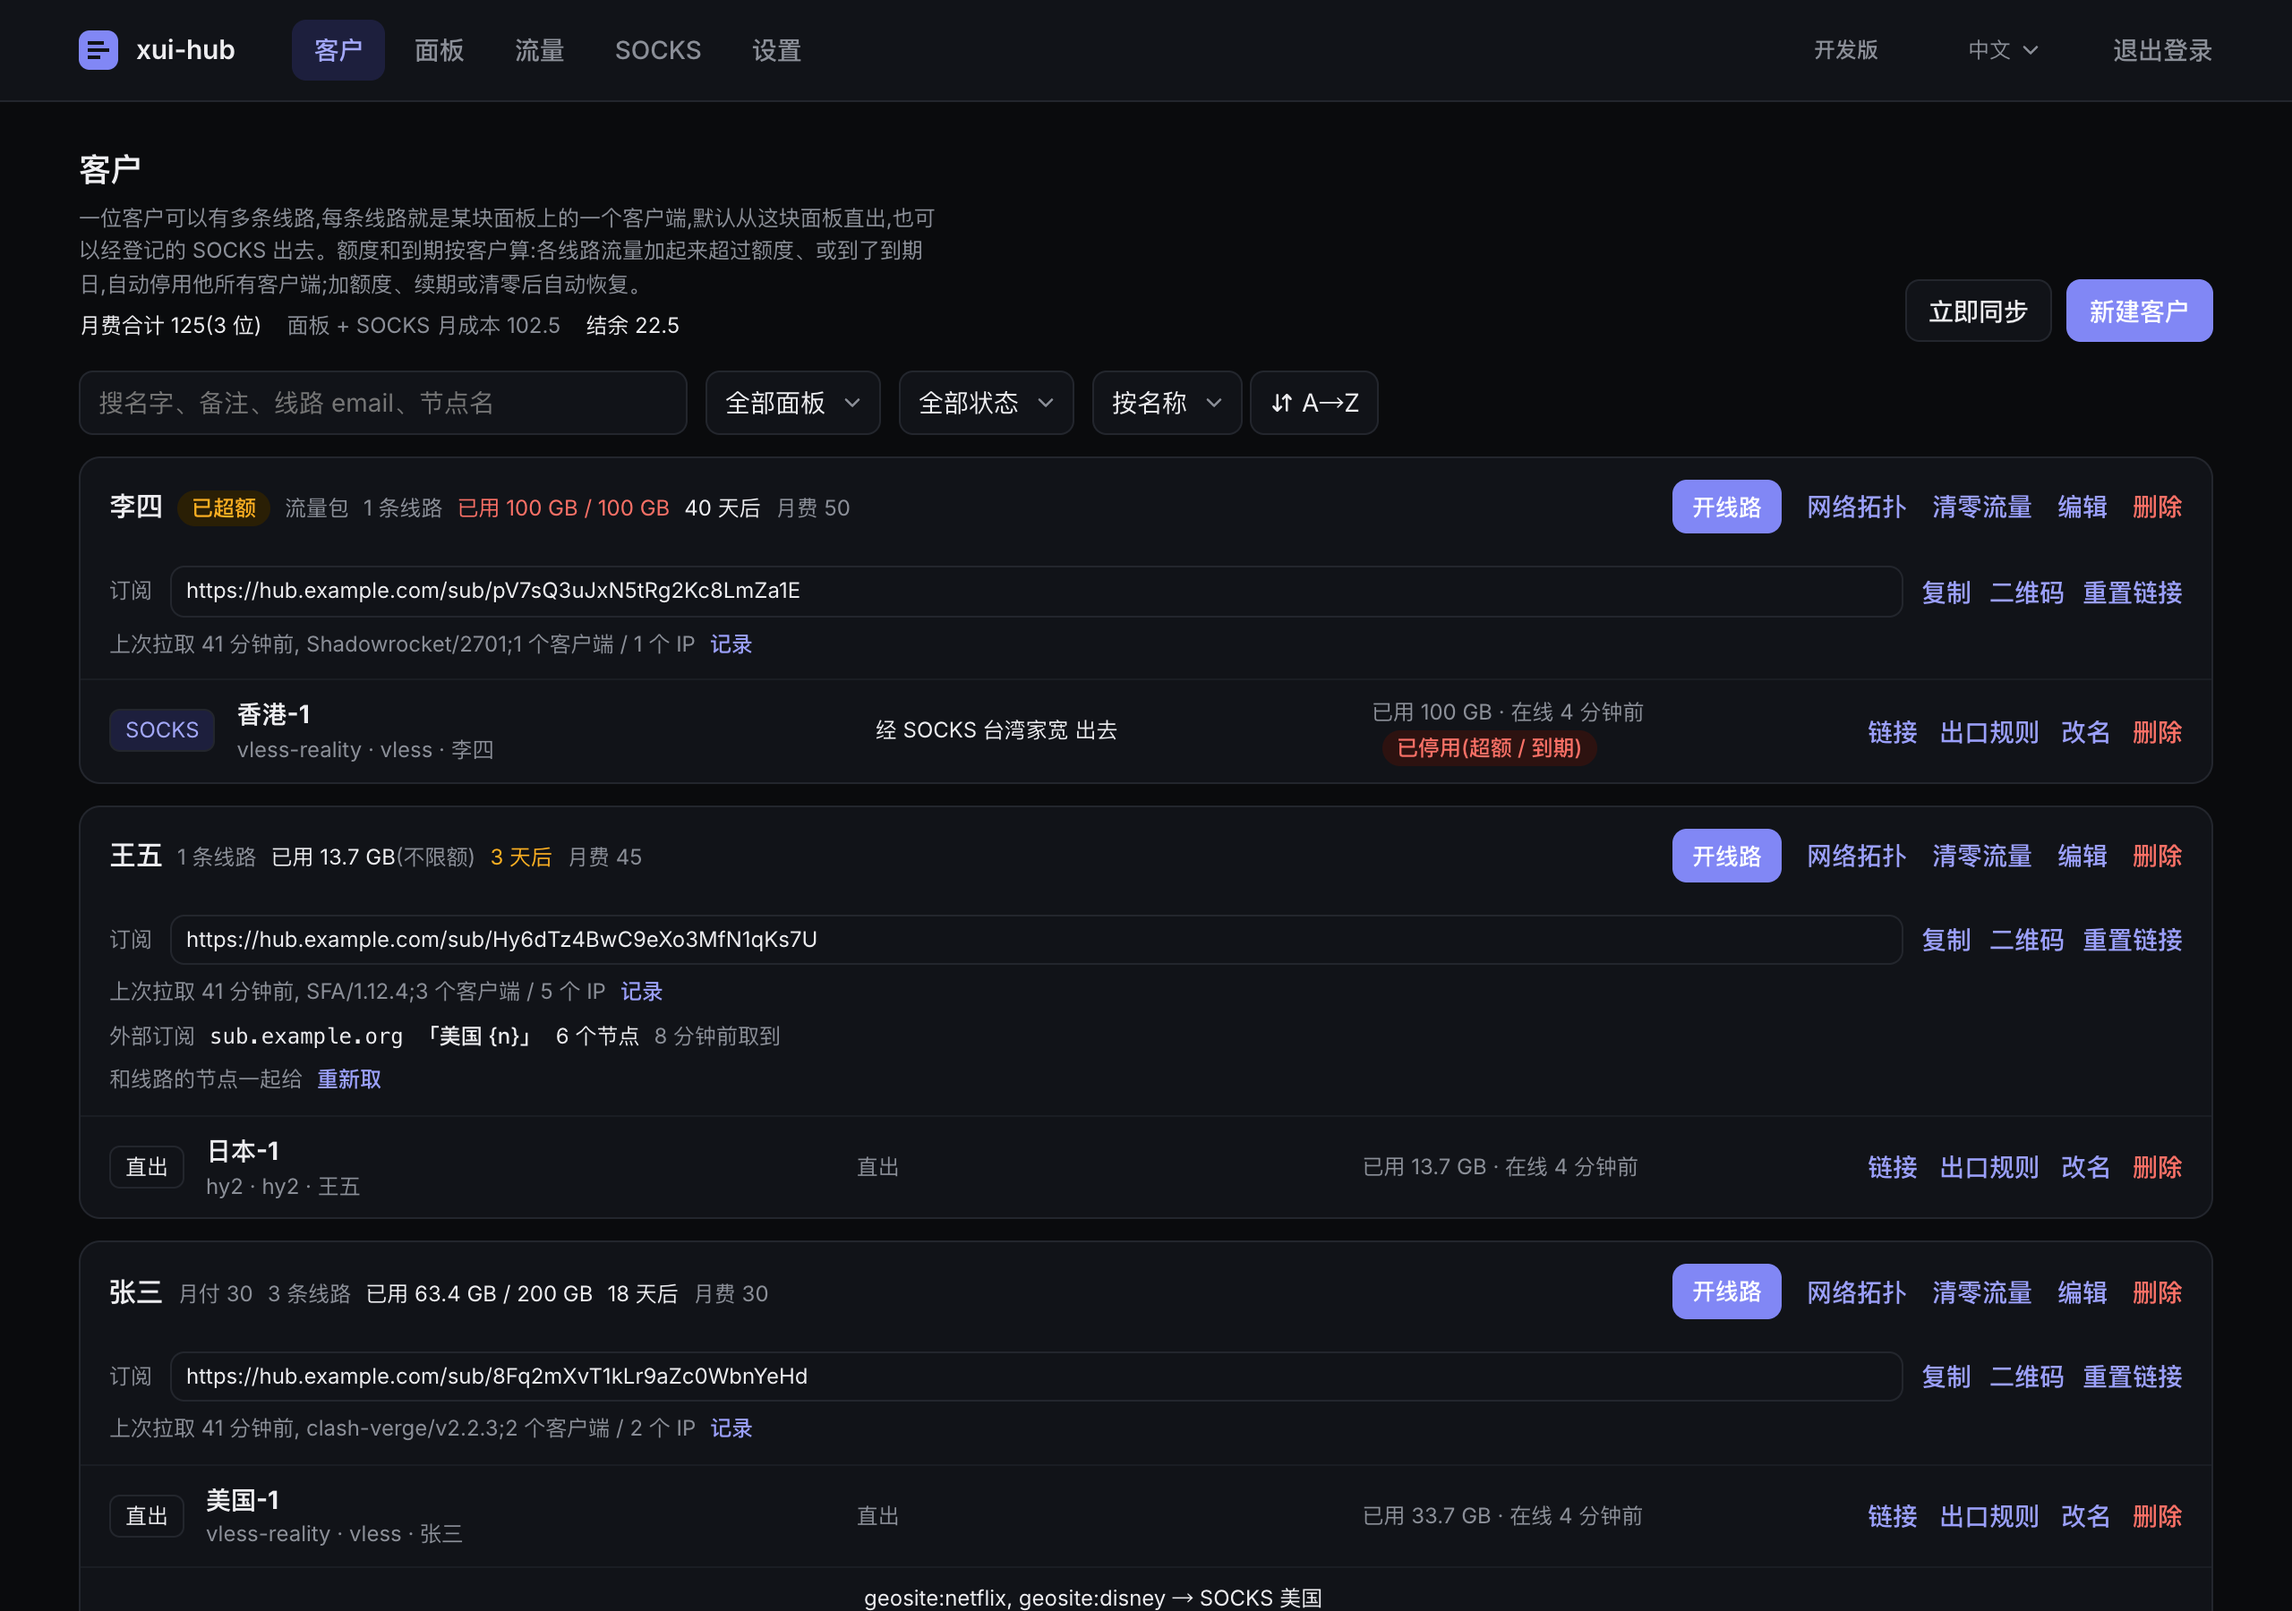
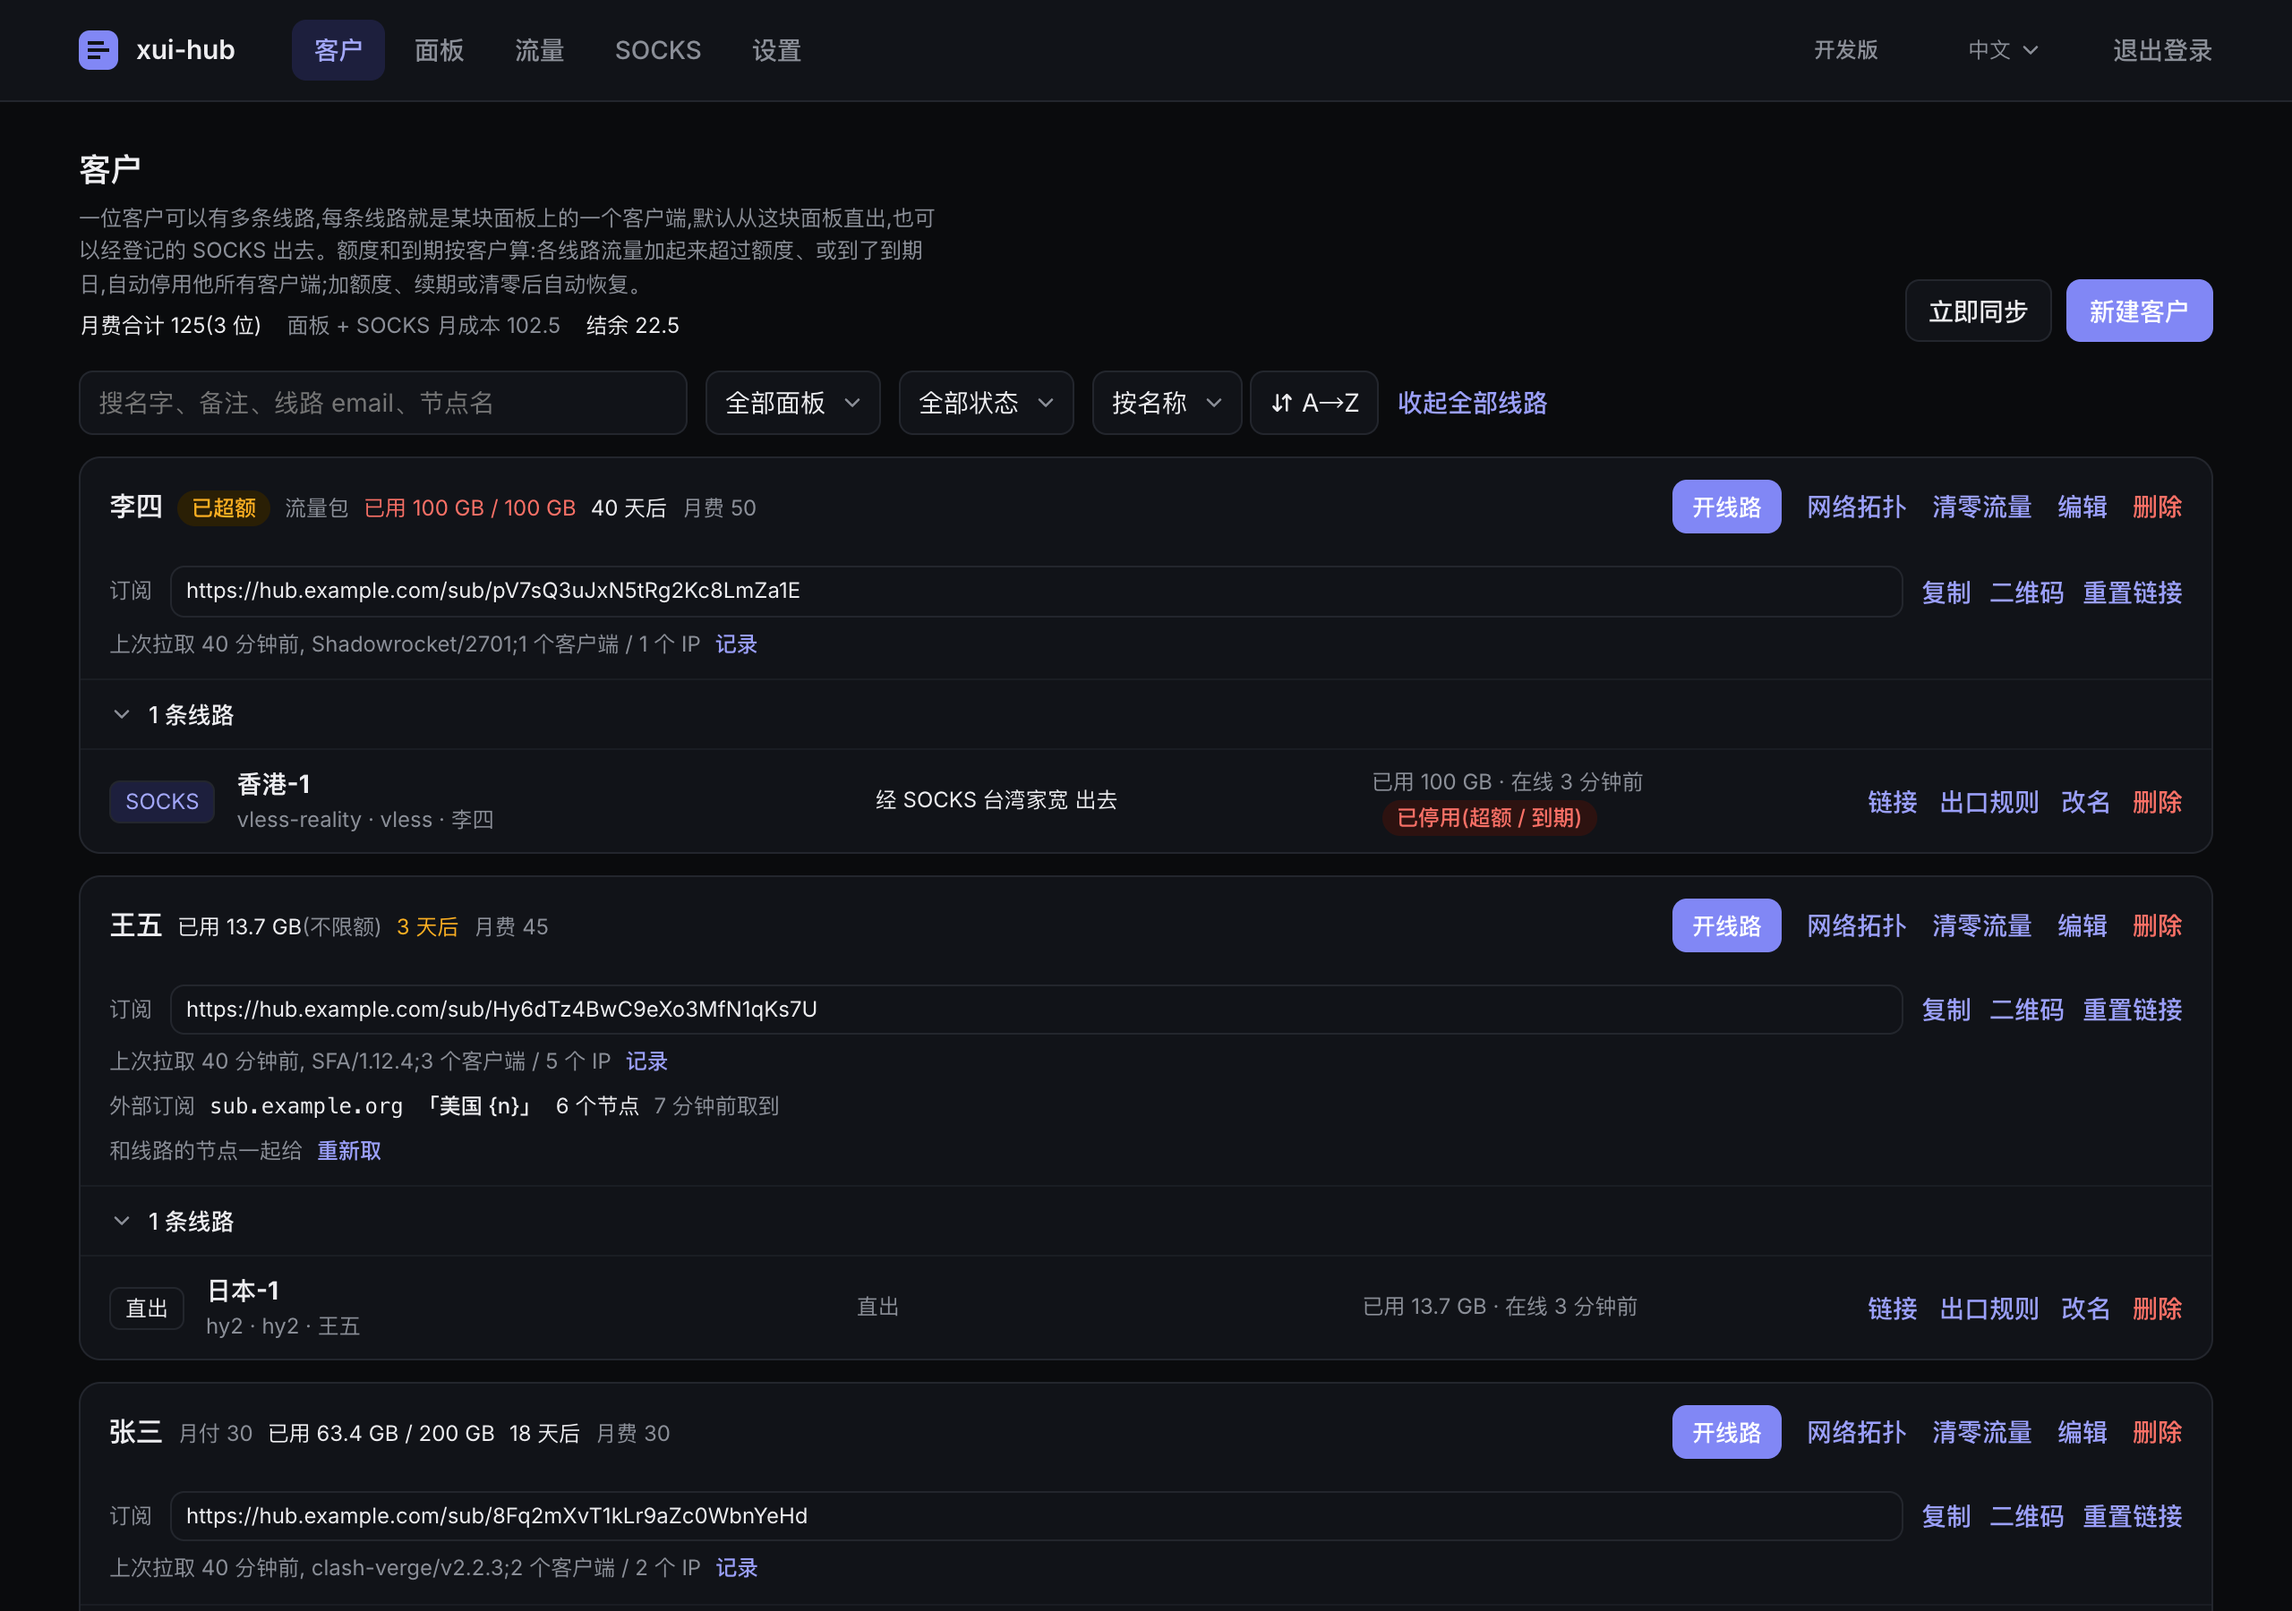
feat: 客户页的线路默认收起 (#21)
- 每位客户的线路默认收起成一行(条数、节点名、停用几条),点开看详情;展开了哪些记在浏览器里
- 筛选栏加「展开 / 收起全部线路」;搜索或按面板过滤时自动展开

diff --git a/web/src/views/Customers.vue b/web/src/views/Customers.vue
@@ -55,6 +55,46 @@ const shown = computed(() => queryCustomers(customers.value, query.value));
 const pickedPanels = computed(() => new Set(query.value.panels));
 const offPanel = (l: Line) => pickedPanels.value.size > 0 && !pickedPanels.value.has(l.panel_id) && !(l.exit_panel_id != null && pickedPanels.value.has(l.exit_panel_id));
 const filtering = computed(() => !!query.value.q.trim() || !!query.value.panels.length || !!query.value.state);
+// ---------- 线路默认收起:只留一行(条数、节点名、停用了几条),点开看详情;展开了哪些记在浏览器里 ----------
+const OPEN_LINES_KEY = 'xui-hub.openCustomerLines';
+const openLines = ref<Set<number>>(new Set());
+try {
+  const saved = JSON.parse(localStorage.getItem(OPEN_LINES_KEY) ?? '[]');
+  if (Array.isArray(saved)) openLines.value = new Set(saved.filter((x) => Number.isInteger(x)));
+} catch {
+  /* 忽略坏数据 */
+}
+function saveOpenLines(next: Set<number>) {
+  openLines.value = next;
+  try {
+    localStorage.setItem(OPEN_LINES_KEY, JSON.stringify([...next]));
+  } catch {
+    /* 存不了就算了 */
+  }
+}
+/** 搜索或按面板过滤时线路都展开(要看的就是线路),这时不显示收起 / 展开 */
+const linesForced = computed(() => !!query.value.q.trim() || query.value.panels.length > 0);
+const linesShown = (c: Customer) => linesForced.value || openLines.value.has(c.id);
+function toggleLines(c: Customer) {
+  const next = new Set(openLines.value);
+  if (next.has(c.id)) next.delete(c.id);
+  else next.add(c.id);
+  saveOpenLines(next);
+}
+const withLines = computed(() => shown.value.filter((c) => c.lines.length));
+const allLinesOpen = computed(() => withLines.value.length > 0 && withLines.value.every((c) => openLines.value.has(c.id)));
+function toggleAllLines() {
+  const next = new Set(openLines.value);
+  for (const c of withLines.value) {
+    if (allLinesOpen.value) next.delete(c.id);
+    else next.add(c.id);
+  }
+  saveOpenLines(next);
+}
+/** 收起时那一行列的名字:有自定义节点名用它,没有用面板名 */
+const lineNames = (c: Customer) => c.lines.map((l) => l.node_name || l.panel_name).join(' · ');
+const linesOff = (c: Customer) => c.lines.filter((l) => !l.enable).length;
+
 function clearFilters() {
   query.value = { ...query.value, q: '', panels: [], state: '' };
 }
@@ -551,6 +591,7 @@ function exitText(l: Line): string {
     </span>
     <span v-if="filtering" class="muted small">{{ t('customers.shown', { n: shown.length, total: customers.length }) }}</span>
     <button v-if="filtering" type="button" class="link" @click="clearFilters">{{ t('customers.clearFilters') }}</button>
+    <button v-if="!linesForced && withLines.length" type="button" class="link" @click="toggleAllLines">{{ allLinesOpen ? t('customers.collapseAll') : t('customers.expandAll') }}</button>
   </div>
 
   <div class="cards">
@@ -560,7 +601,6 @@ function exitText(l: Line): string {
           <span class="name">{{ c.name }}</span>
           <span v-if="c.state !== 'active'" class="badge" :class="c.state">{{ stateLabel(c.state) }}</span>
           <span v-if="c.remark" class="muted small">{{ c.remark }}</span>
-          <span class="muted small">{{ t('customers.lineCount', { n: c.lines.length }, c.lines.length) }}</span>
           <span class="small" :class="{ 'text-err': c.state === 'over_quota' }">
             {{ t('customers.used', { used: fmtBytes(c.used) }) }}<template v-if="c.quota_bytes"> / {{ fmtBytes(c.quota_bytes) }}</template><span v-else class="muted">{{ t('customers.unlimited') }}</span>
           </span>
@@ -613,7 +653,13 @@ function exitText(l: Line): string {
           <button class="link" :disabled="refreshing === c.id" @click="refreshUpstreams(c)">{{ refreshing === c.id ? t('customers.upstreamRefreshing') : t('customers.upstreamRefresh') }}</button>
         </div>
       </div>
-      <ul v-if="c.lines.length" class="lines">
+      <button v-if="c.lines.length && !linesForced" type="button" class="lines-toggle" :class="{ open: linesShown(c) }" :aria-expanded="linesShown(c)" @click="toggleLines(c)">
+        <svg class="chev" viewBox="0 0 16 16" width="14" height="14" aria-hidden="true"><path d="M6 4l4 4-4 4" fill="none" stroke="currentColor" stroke-width="1.6" stroke-linecap="round" stroke-linejoin="round" /></svg>
+        <span class="count">{{ t('customers.lineCount', { n: c.lines.length }, c.lines.length) }}</span>
+        <span v-if="!linesShown(c)" class="muted names" :title="lineNames(c)">{{ lineNames(c) }}</span>
+        <span v-if="!linesShown(c) && linesOff(c)" class="badge err">{{ t('customers.linesOff', { n: linesOff(c) }) }}</span>
+      </button>
+      <ul v-if="c.lines.length && linesShown(c)" class="lines">
         <li v-for="l in c.lines" :key="l.id" class="line" :class="{ dim: offPanel(l) }">
           <span class="chip" :class="l.kind">{{ l.kind === 'direct' ? t('customers.direct') : t('customers.relay') }}</span>
           <span class="where">
@@ -637,7 +683,7 @@ function exitText(l: Line): string {
           </span>
         </li>
       </ul>
-      <p v-else class="muted small none">{{ t('customers.noLines') }}</p>
+      <p v-if="!c.lines.length" class="muted small none">{{ t('customers.noLines') }}</p>
     </article>
   </div>
   <div v-if="!customers.length" class="empty sheet">{{ t('customers.empty') }}</div>
@@ -1077,6 +1123,55 @@ h2 {
 }
 .sub-meta .link {
   margin-left: 8px;
+}
+.lines-toggle {
+  display: flex;
+  align-items: center;
+  gap: 8px;
+  width: 100%;
+  min-width: 0;
+  padding: 9px 16px;
+  border: none;
+  border-top: 1px solid var(--rule-soft);
+  border-radius: 0 0 12px 12px;
+  background: none;
+  box-shadow: none;
+  font-size: 13px;
+  font-weight: 500;
+  color: var(--ink);
+  text-align: left;
+}
+.lines-toggle.open {
+  border-radius: 0;
+}
+.lines-toggle:hover {
+  background: var(--hover);
+}
+.lines-toggle .chev {
+  flex: none;
+  color: var(--ink-soft);
+  transition: transform 0.15s;
+}
+.lines-toggle.open .chev {
+  transform: rotate(90deg);
+}
+.lines-toggle .count {
+  flex: none;
+}
+.lines-toggle .names {
+  min-width: 0;
+  overflow: hidden;
+  text-overflow: ellipsis;
+  white-space: nowrap;
+  font-weight: 400;
+}
+.lines-toggle .badge {
+  flex: none;
+}
+@media (prefers-reduced-motion: reduce) {
+  .lines-toggle .chev {
+    transition: none;
+  }
 }
 .lines {
   list-style: none;

diff --git a/web/src/i18n/en.ts b/web/src/i18n/en.ts
@@ -471,6 +471,9 @@ const en: Messages = {
     syncHint: 'Read traffic from every panel now and apply quota / expiry',
     create: 'New customer',
     lineCount: '{n} line | {n} lines',
+    linesOff: '{n} disabled',
+    expandAll: 'Expand all lines',
+    collapseAll: 'Collapse all lines',
     used: 'Used {used}',
     unlimited: ' (no quota)',
     template: 'Template: {name}',

diff --git a/web/src/i18n/zh.ts b/web/src/i18n/zh.ts
@@ -469,6 +469,9 @@ export default {
     syncHint: '马上读一遍各面板的流量,并执行额度 / 到期',
     create: '新建客户',
     lineCount: '{n} 条线路',
+    linesOff: '{n} 条停用',
+    expandAll: '展开全部线路',
+    collapseAll: '收起全部线路',
     used: '已用 {used}',
     unlimited: '(不限额)',
     template: '模板:{name}',

diff --git a/README.md b/README.md
@@ -40,7 +40,7 @@
 - 可记每位客户的月费:客户页顶上合计没到期客户的月费,减去面板和 SOCKS 的月成本得出结余;快到期的提醒里带上月费。只用来记账。
 - 可设设备数上限:每个导入过订阅的客户端算一台(按客户端的 UA 区分),满了以后新设备拉不到订阅;客户在自助页里可以自己移除旧设备。只管订阅链接,不改面板。
 - 每条线路可看分享链接和二维码,每位客户可看一张可缩放的网络拓扑图。
-- 客户页可搜索(名字、备注、线路 email、节点名),按面板(可多选)和状态(正常 / 7 天内到期 / 超额 / 到期)过滤,按名称、到期日、已用流量、月费、新建时间或最近拉订阅排序。
+- 客户页可搜索(名字、备注、线路 email、节点名),按面板(可多选)和状态(正常 / 7 天内到期 / 超额 / 到期)过滤,按名称、到期日、已用流量、月费、新建时间或最近拉订阅排序;线路默认收起成一行(条数、节点名、停用几条),点开看详情。
 - 可以给线路配出口规则(「条件 → 出口」,比如流媒体走 A、国内直连、去广告),xui-hub 写到面板的 Xray 路由并重启 Xray;没命中的流量走线路原来的出口。条件支持域名(含 geosite)、IP(含 geoip)、端口、网络,出口可选登记的 SOCKS、直出、拦截。只改 xui-hub 写的规则,面板上手配的不动。
 - 线路显示面板上实际的出口:每分钟同步时读面板的 Xray 路由规则。同一个客户端在面板上按规则配了多个出口(比如流媒体走 A、其余走 B),线路和拓扑图里会逐条列出条件和去向;登记过的 SOCKS 按地址认出来。只读,不改面板。
 
